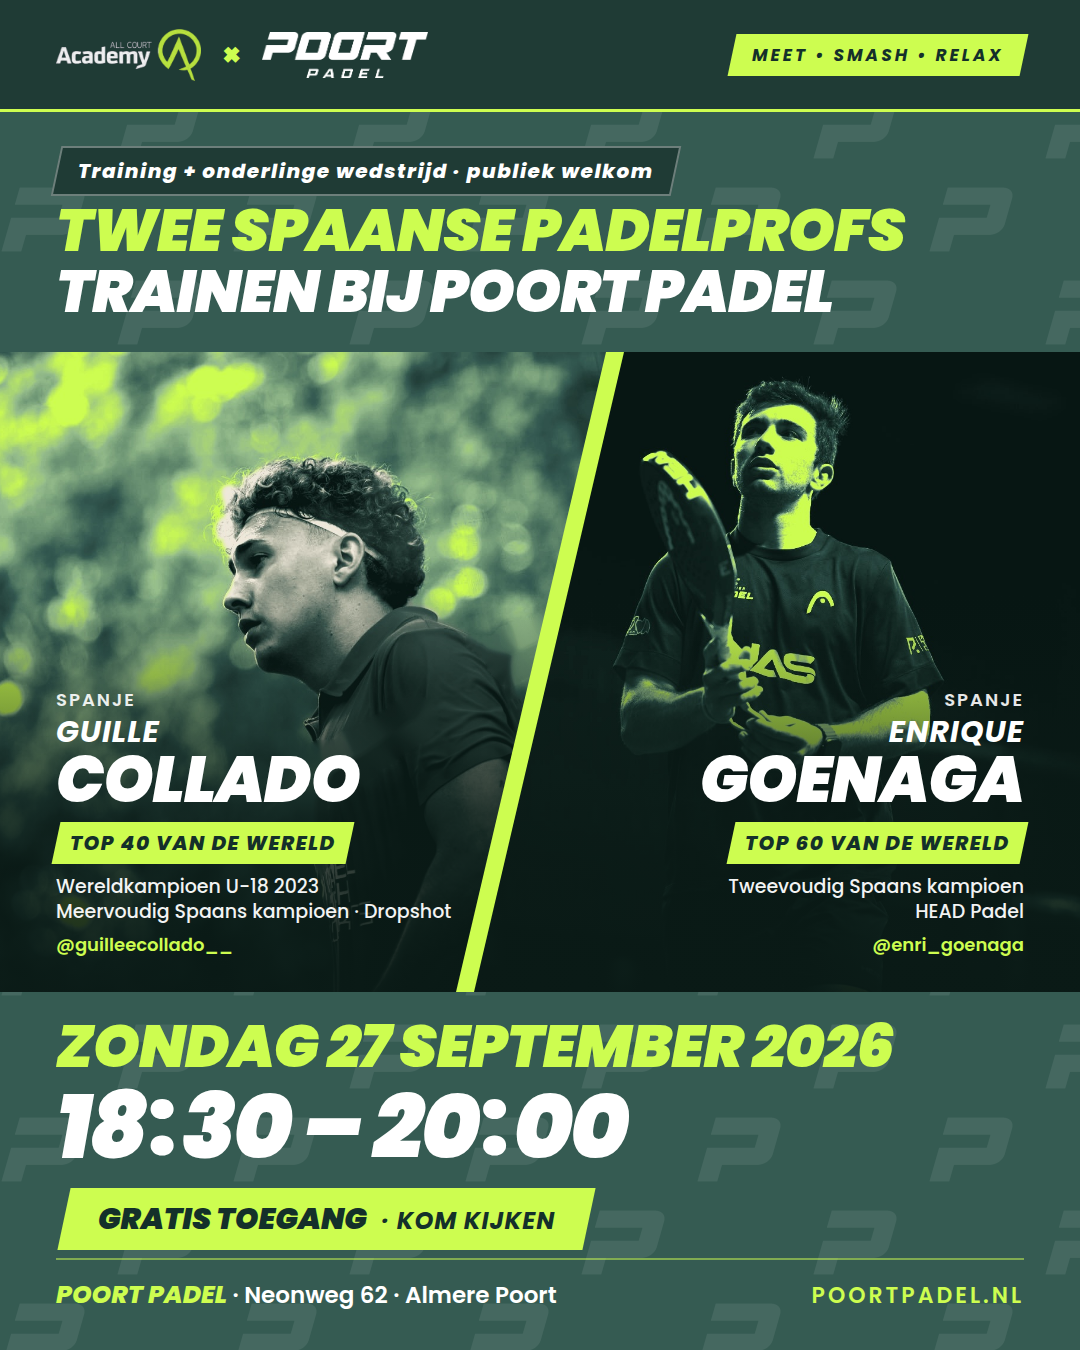
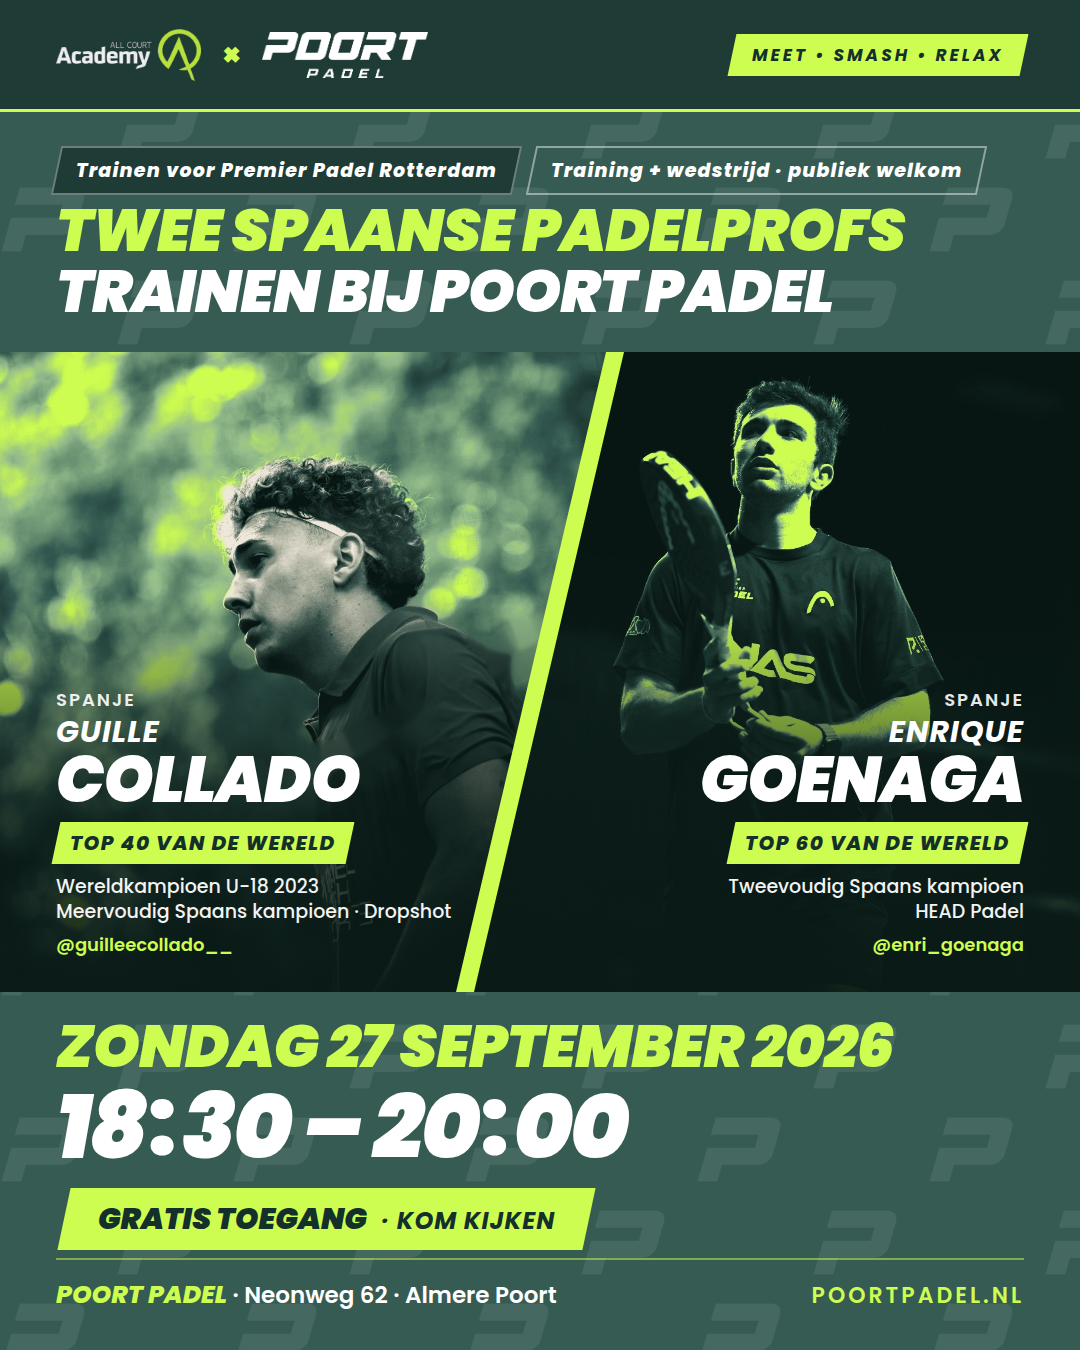
Poster Goenaga & Collado: label Premier Padel Rotterdam toegevoegd
Twee labels boven de kop, indeling verder ongewijzigd.

Claude-Session: https://claude.ai/code/session_01XvRhSgAuPfNbbAXDCSXsBF

Changed region(s): [[0.0611, 0.0933, 0.8861, 0.1556]]

diff --git a/events/2026-poort-padel-goenaga-collado/poster-c.html b/events/2026-poort-padel-goenaga-collado/poster-c.html
@@ -19,8 +19,10 @@ body{font-family:"Poppins",Arial,sans-serif;color:var(--white);position:relative
 .band .logos .x{color:var(--lime);font-weight:900;font-size:30px;line-height:1}
 .tag{background:var(--lime);color:var(--ink);font-weight:700;font-style:italic;font-size:17px;letter-spacing:3px;padding:8px 20px;transform:skewX(-12deg)}
 .tag span{display:inline-block;transform:skewX(12deg)}
-.kicker{display:inline-block;background:var(--green-dark);color:var(--white);border:2px solid rgba(255,255,255,.35);font-weight:800;font-style:italic;font-size:20px;letter-spacing:1.5px;padding:8px 20px;transform:skewX(-12deg)}
+.kicker{display:inline-block;background:var(--green-dark);color:var(--white);border:2px solid rgba(255,255,255,.35);font-weight:800;font-style:italic;font-size:19px;letter-spacing:1.2px;padding:8px 18px;transform:skewX(-12deg)}
 .kicker span{display:inline-block;transform:skewX(12deg)}
+.kick{display:flex;gap:14px;white-space:nowrap}
+.kicker.two{background:transparent;color:var(--white);border-color:rgba(255,255,255,.45)}
 .headline{font-weight:900;font-style:italic;line-height:1.02;letter-spacing:-1px}
 .lime{color:var(--lime)}
 .c{font-style:normal;letter-spacing:0;margin:0 .05em 0 .03em;position:relative;top:-.03em}
@@ -69,7 +71,7 @@ body{font-family:"Poppins",Arial,sans-serif;color:var(--white);position:relative
   <div class="logos"><img class="aca" src="build/logo-all-court-academy-wit.png" alt="All Court Academy"><span class="x">×</span><img class="pp" src="build/logo-poort-padel-wit.png" alt="Poort Padel"></div>
   <div class="tag"><span>MEET • SMASH • RELAX</span></div>
 </div>
-<div class="kick"><div class="kicker"><span>Training + onderlinge wedstrijd · publiek welkom</span></div></div>
+<div class="kick"><div class="kicker"><span>Trainen voor Premier Padel Rotterdam</span></div><div class="kicker two"><span>Training + wedstrijd · publiek welkom</span></div></div>
 <div class="headline upper">Twee Spaanse padelprofs <span class="lime">trainen bij Poort Padel</span></div>
 <div class="photos">
   <div class="panel top"><img src="build/collado-profile-duotone.jpg" alt="Guille Collado" style="object-position:70% 8%"></div>

diff --git a/events/2026-poort-padel-goenaga-collado/poster-a.html b/events/2026-poort-padel-goenaga-collado/poster-a.html
@@ -19,8 +19,10 @@ body{font-family:"Poppins",Arial,sans-serif;color:var(--white);position:relative
 .band .logos .x{color:var(--lime);font-weight:900;font-size:30px;line-height:1}
 .tag{background:var(--lime);color:var(--ink);font-weight:700;font-style:italic;font-size:17px;letter-spacing:3px;padding:8px 20px;transform:skewX(-12deg)}
 .tag span{display:inline-block;transform:skewX(12deg)}
-.kicker{display:inline-block;background:var(--green-dark);color:var(--white);border:2px solid rgba(255,255,255,.35);font-weight:800;font-style:italic;font-size:20px;letter-spacing:1.5px;padding:8px 20px;transform:skewX(-12deg)}
+.kicker{display:inline-block;background:var(--green-dark);color:var(--white);border:2px solid rgba(255,255,255,.35);font-weight:800;font-style:italic;font-size:19px;letter-spacing:1.2px;padding:8px 18px;transform:skewX(-12deg)}
 .kicker span{display:inline-block;transform:skewX(12deg)}
+.kick{display:flex;gap:14px;white-space:nowrap}
+.kicker.two{background:transparent;color:var(--white);border-color:rgba(255,255,255,.45)}
 .headline{font-weight:900;font-style:italic;line-height:1.02;letter-spacing:-1px}
 .lime{color:var(--lime)}
 .c{font-style:normal;letter-spacing:0;margin:0 .05em 0 .03em;position:relative;top:-.03em}
@@ -64,7 +66,7 @@ body{font-family:"Poppins",Arial,sans-serif;color:var(--white);position:relative
   <div class="logos"><img class="aca" src="build/logo-all-court-academy-wit.png" alt="All Court Academy"><span class="x">×</span><img class="pp" src="build/logo-poort-padel-wit.png" alt="Poort Padel"></div>
   <div class="tag"><span>MEET • SMASH • RELAX</span></div>
 </div>
-<div class="kick"><div class="kicker"><span>Training + onderlinge wedstrijd · publiek welkom</span></div></div>
+<div class="kick"><div class="kicker"><span>Trainen voor Premier Padel Rotterdam</span></div><div class="kicker two"><span>Training + wedstrijd · publiek welkom</span></div></div>
 <div class="headline upper"><span class="lime">Twee Spaanse padelprofs</span><br>trainen bij Poort Padel</div>
 <div class="photos">
   <div class="panel left"><img src="build/collado-profile-duotone.jpg" alt="Guille Collado"></div>

diff --git a/events/2026-poort-padel-goenaga-collado/poster-d.html b/events/2026-poort-padel-goenaga-collado/poster-d.html
@@ -19,8 +19,10 @@ body{font-family:"Poppins",Arial,sans-serif;color:var(--white);position:relative
 .band .logos .x{color:var(--lime);font-weight:900;font-size:30px;line-height:1}
 .tag{background:var(--lime);color:var(--ink);font-weight:700;font-style:italic;font-size:17px;letter-spacing:3px;padding:8px 20px;transform:skewX(-12deg)}
 .tag span{display:inline-block;transform:skewX(12deg)}
-.kicker{display:inline-block;background:var(--green-dark);color:var(--white);border:2px solid rgba(255,255,255,.35);font-weight:800;font-style:italic;font-size:20px;letter-spacing:1.5px;padding:8px 20px;transform:skewX(-12deg)}
+.kicker{display:inline-block;background:var(--green-dark);color:var(--white);border:2px solid rgba(255,255,255,.35);font-weight:800;font-style:italic;font-size:19px;letter-spacing:1.2px;padding:8px 18px;transform:skewX(-12deg)}
 .kicker span{display:inline-block;transform:skewX(12deg)}
+.kick{display:flex;gap:14px;white-space:nowrap}
+.kicker.two{background:transparent;color:var(--white);border-color:rgba(255,255,255,.45)}
 .headline{font-weight:900;font-style:italic;line-height:1.02;letter-spacing:-1px}
 .lime{color:var(--lime)}
 .c{font-style:normal;letter-spacing:0;margin:0 .05em 0 .03em;position:relative;top:-.03em}
@@ -72,7 +74,7 @@ body{color:var(--ink)}
   <div class="logos"><img class="aca" src="build/logo-all-court-academy-wit.png" alt="All Court Academy"><span class="x">×</span><img class="pp" src="build/logo-poort-padel-wit.png" alt="Poort Padel"></div>
   <div class="tag"><span>MEET • SMASH • RELAX</span></div>
 </div>
-<div class="kick"><div class="kicker"><span>Training + onderlinge wedstrijd · publiek welkom</span></div></div>
+<div class="kick"><div class="kicker"><span>Trainen voor Premier Padel Rotterdam</span></div><div class="kicker two"><span>Training + wedstrijd · publiek welkom</span></div></div>
 <div class="headline upper">Twee Spaanse padelprofs<br><span class="inv"><span>trainen bij Poort Padel</span></span></div>
 <div class="photos">
   <div class="panel left"><img src="build/collado-profile-duotone.jpg" alt="Guille Collado"></div>

diff --git a/events/2026-poort-padel-goenaga-collado/poster-b.html b/events/2026-poort-padel-goenaga-collado/poster-b.html
@@ -19,8 +19,10 @@ body{font-family:"Poppins",Arial,sans-serif;color:var(--white);position:relative
 .band .logos .x{color:var(--lime);font-weight:900;font-size:30px;line-height:1}
 .tag{background:var(--lime);color:var(--ink);font-weight:700;font-style:italic;font-size:17px;letter-spacing:3px;padding:8px 20px;transform:skewX(-12deg)}
 .tag span{display:inline-block;transform:skewX(12deg)}
-.kicker{display:inline-block;background:var(--green-dark);color:var(--white);border:2px solid rgba(255,255,255,.35);font-weight:800;font-style:italic;font-size:20px;letter-spacing:1.5px;padding:8px 20px;transform:skewX(-12deg)}
+.kicker{display:inline-block;background:var(--green-dark);color:var(--white);border:2px solid rgba(255,255,255,.35);font-weight:800;font-style:italic;font-size:19px;letter-spacing:1.2px;padding:8px 18px;transform:skewX(-12deg)}
 .kicker span{display:inline-block;transform:skewX(12deg)}
+.kick{display:flex;gap:14px;white-space:nowrap}
+.kicker.two{background:transparent;color:var(--white);border-color:rgba(255,255,255,.45)}
 .headline{font-weight:900;font-style:italic;line-height:1.02;letter-spacing:-1px}
 .lime{color:var(--lime)}
 .c{font-style:normal;letter-spacing:0;margin:0 .05em 0 .03em;position:relative;top:-.03em}

diff --git a/events/2026-poort-padel-goenaga-collado/build_variants.py b/events/2026-poort-padel-goenaga-collado/build_variants.py
@@ -3,7 +3,8 @@ Tekst en spelers staan hieronder één keer; de lay-out verschilt per variant.
 Daarna: ./render.sh poster-a.html poster-a  (enz.)"""
 
 T = {
-    'kicker': 'Training + onderlinge wedstrijd · publiek welkom',
+    'kicker': 'Trainen voor Premier Padel Rotterdam',
+    'kicker2': 'Training + wedstrijd · publiek welkom',
     'h1': 'Twee Spaanse padelprofs',
     'h2': 'trainen bij Poort Padel',
     'lead': 'Kom kijken naar hun training en hun onderlinge wedstrijd in Almere Poort.',
@@ -63,8 +64,10 @@ body{font-family:"Poppins",Arial,sans-serif;color:var(--white);position:relative
 .band .logos .x{color:var(--lime);font-weight:900;font-size:30px;line-height:1}
 .tag{background:var(--lime);color:var(--ink);font-weight:700;font-style:italic;font-size:17px;letter-spacing:3px;padding:8px 20px;transform:skewX(-12deg)}
 .tag span{display:inline-block;transform:skewX(12deg)}
-.kicker{display:inline-block;background:var(--green-dark);color:var(--white);border:2px solid rgba(255,255,255,.35);font-weight:800;font-style:italic;font-size:20px;letter-spacing:1.5px;padding:8px 20px;transform:skewX(-12deg)}
+.kicker{display:inline-block;background:var(--green-dark);color:var(--white);border:2px solid rgba(255,255,255,.35);font-weight:800;font-style:italic;font-size:19px;letter-spacing:1.2px;padding:8px 18px;transform:skewX(-12deg)}
 .kicker span{display:inline-block;transform:skewX(12deg)}
+.kick{display:flex;gap:14px;white-space:nowrap}
+.kicker.two{background:transparent;color:var(--white);border-color:rgba(255,255,255,.45)}
 .headline{font-weight:900;font-style:italic;line-height:1.02;letter-spacing:-1px}
 .lime{color:var(--lime)}
 .c{font-style:normal;letter-spacing:0;margin:0 .05em 0 .03em;position:relative;top:-.03em}
@@ -139,7 +142,7 @@ CSS_A = """
 .when .cta{margin:16px 0 0 8px}
 """
 BODY_A = f"""{band()}
-<div class="kick"><div class="kicker"><span>{T['kicker']}</span></div></div>
+<div class="kick"><div class="kicker"><span>{T['kicker']}</span></div><div class="kicker two"><span>{T['kicker2']}</span></div></div>
 <div class="headline upper"><span class="lime">{T['h1']}</span><br>{T['h2']}</div>
 <div class="photos">
   <div class="panel left"><img src="{P1['img']}" alt="{P1['first']} {P1['last']}"></div>
@@ -214,7 +217,7 @@ CSS_C = """
 .footer{bottom:30px;padding-top:12px}
 """
 BODY_C = f"""{band()}
-<div class="kick"><div class="kicker"><span>{T['kicker']}</span></div></div>
+<div class="kick"><div class="kicker"><span>{T['kicker']}</span></div><div class="kicker two"><span>{T['kicker2']}</span></div></div>
 <div class="headline upper">{T['h1']} <span class="lime">{T['h2']}</span></div>
 <div class="photos">
   <div class="panel top"><img src="{P1['img']}" alt="{P1['first']} {P1['last']}" style="object-position:70% 8%"></div>
@@ -255,7 +258,7 @@ body{color:var(--ink)}
 .footer .where b,.footer .site{color:var(--ink)}
 """
 BODY_D = f"""{band()}
-<div class="kick"><div class="kicker"><span>{T['kicker']}</span></div></div>
+<div class="kick"><div class="kicker"><span>{T['kicker']}</span></div><div class="kicker two"><span>{T['kicker2']}</span></div></div>
 <div class="headline upper">{T['h1']}<br><span class="inv"><span>{T['h2']}</span></span></div>
 <div class="photos">
   <div class="panel left"><img src="{P1['img']}" alt="{P1['first']} {P1['last']}"></div>

diff --git a/events/2026-poort-padel-goenaga-collado/README.md b/events/2026-poort-padel-goenaga-collado/README.md
@@ -178,3 +178,7 @@ Op `collado-profile.jpg` loopt een lichte streep (lensflare) over borst en boven
 
 - Eerst is de achtergrond achter Collado gedempt, maar Lars wilde de achtergrond terug: het ging om de lime vlekken op zijn gezicht en haar. Nu maakt `build_clean_collado.py` alleen een masker van de persoon (GrabCut, `build/collado-mask.png`) en gebruikt `build_duotone.py` binnen dat masker een tweede kleurverloop (`STOPS_SKIN`): zelfde donkere schaduwen, maar de hoge lichten lopen naar een warm neutraal licht in plaats van lime. De achtergrond houdt de lime duotone. Wil je hetzelfde bij Goenaga, dan is daar ook een masker voor nodig.
 - De dubbele punten in "18:30 – 20:00" stonden schuin tegen de 8 en de 0 aan. Ze staan nu rechtop met wat ruimte (class `c` in `build_variants.py`).
+
+## Premier Padel Rotterdam toegevoegd (22 september 2026)
+
+Boven de kop staan nu twee labels naast elkaar: "Trainen voor Premier Padel Rotterdam" (donker vak) en "Training + wedstrijd · publiek welkom" (open vak met witte rand). De rest van de indeling is ongewijzigd. Tekst van beide labels: `kicker` en `kicker2` in `build_variants.py`.
